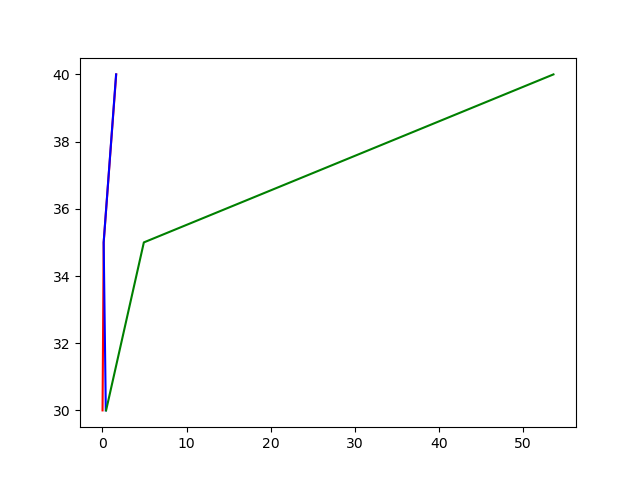
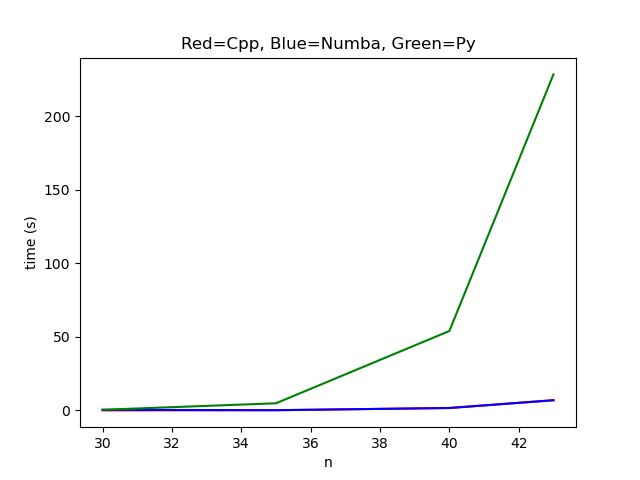
n43

diff --git a/MA4_Files/MA4_2.py b/MA4_Files/MA4_2.py
@@ -18,7 +18,7 @@ def fib_numba(n):
 		return fib_numba(n-1) + fib_numba(n-2)
 
 def main():
-	n = [30, 35, 40]
+	n = [30, 35, 40, 43]
 	timeCPP = []
 	timeNJIT = []
 	timePy = []
@@ -28,16 +28,19 @@ def main():
 		f.fib()
 		end = pc()
 		timeCPP += [(end - start)]
-
+		print(1)
 		start = pc()
 		r = fib_numba(x)
 		end = pc()
 		timeNJIT += [(end - start)]
-
+		print(2)
 		start = pc()
 		c = fib_py(x)
 		end = pc()
 		timePy += [(end-start)]
+		print(3)
+		print(str(x) + ' is done')
+
 	nn = [20, 25, 30]
 	timeNJIT2 = []
 	timePy2 = []
@@ -52,26 +55,32 @@ def main():
 		end = pc()
 		timePy2 += [(end-start)]
 
-	f = Person(37)
+	f = Person(47)
 	start = pc()
 	f.fib()
 	end = pc()
 	t47cpp = (end - start)
 
 	start = pc()
-	t = fib_numba(37)
+	t = fib_numba(47)
 	end = pc()
 	t47numba = (end - start)
 
 	plt.figure(1)
-	plt.plot(timeCPP, n, color='red')
-	plt.plot(timeNJIT, n, color='blue')
-	plt.plot(timePy, n, color='green')
+	plt.plot(n, timeCPP, color='red')
+	plt.plot(n, timeNJIT, color='blue')
+	plt.plot(n, timePy, color='green')
+	plt.xlabel('n')
+	plt.ylabel('time (s)')
+	plt.title('Red=Cpp, Blue=Numba, Green=Py')
 	plt.savefig('Fig1.png')
 
 	plt.figure(2)
-	plt.plot(timeNJIT2, nn, color='blue')
-	plt.plot(timePy2, nn, color='green')
+	plt.plot(nn, timeNJIT2, color='blue')
+	plt.plot(nn, timePy2, color='green')
+	plt.xlabel('n')
+	plt.ylabel('time (s)')
+	plt.title('Blue=Numba, Green=Py')
 	plt.savefig('Fig2.png')
 
 if __name__ == '__main__':
